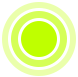
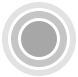
change clusters

diff --git a/eFillApp/src/app/services/navigation/navigation.service.ts b/eFillApp/src/app/services/navigation/navigation.service.ts
@@ -2,6 +2,7 @@ import {Injectable, NgZone} from '@angular/core';
 import {Geolocation} from '@ionic-native/geolocation/ngx';
 import {DataImportService} from '../data-import/data-import.service';
 import * as MarkerClusterer from '@google/markerclustererplus';
+import {MapStyleService} from '../map-style/map-style.service';
 
 declare let google: any;
 
@@ -24,49 +25,15 @@ export class NavigationService {
     public coords = [];
     public markerCluster: any;
 
-    public clusterStyles = [
-        {
-            textColor: 'black',
-            url: 'assets/cluster/m1.png',
-            height: 50,
-            width: 50
-        },
-        {
-            textColor: 'black',
-            url: 'assets/cluster/m2.png',
-            height: 50,
-            width: 50
-        },
-        {
-            textColor: 'black',
-            url: 'assets/cluster/m3.png',
-            height: 50,
-            width: 50
-        },
-        {
-            textColor: 'black',
-            url: 'assets/cluster/m4.png',
-            height: 50,
-            width: 50
-        },
-        {
-            textColor: 'black',
-            url: 'assets/cluster/m5.png',
-            height: 50,
-            width: 50
-        },
-    ];
-
     public mcOptions = {
-        gridSize: 50,
-        styles: this.clusterStyles,
-        maxZoom: 15
+        styles: this.mapStyleService.clusterStyles,
     };
 
     constructor(
         public geolocation: Geolocation,
         public zone: NgZone,
-        public importData: DataImportService) {
+        public importData: DataImportService,
+        public mapStyleService: MapStyleService) {
         this.geocoder = new google.maps.Geocoder;
         const elem = document.createElement('div');
         this.GooglePlaces = new google.maps.places.PlacesService(elem);
@@ -93,7 +60,7 @@ export class NavigationService {
                 const marker = this.addMarker(location, map);
                 this.stationMarkers.push(marker);
             }
-            // this.markerCluster = new MarkerClusterer(map, this.stationMarkers, this.mcOptions);
+            this.markerCluster = new MarkerClusterer(map, this.stationMarkers, this.mcOptions);
         });
     }
 

diff --git a/eFillApp/src/app/services/map-style/map-style.service.ts b/eFillApp/src/app/services/map-style/map-style.service.ts
@@ -228,4 +228,37 @@ export class MapStyleService {
         ]
     );
 
+    public clusterStyles = [
+        {
+            textColor: 'black',
+            url: 'assets/cluster/m1.png',
+            height: 50,
+            width: 50
+        },
+        {
+            textColor: 'black',
+            url: 'assets/cluster/m2.png',
+            height: 53,
+            width: 53
+        },
+        {
+            textColor: 'black',
+            url: 'assets/cluster/m3.png',
+            height: 66,
+            width: 66
+        },
+        {
+            textColor: 'black',
+            url: 'assets/cluster/m4.png',
+            height: 78,
+            width: 78
+        },
+        {
+            textColor: 'black',
+            url: 'assets/cluster/m5.png',
+            height: 78,
+            width: 78
+        },
+    ];
+
 }
